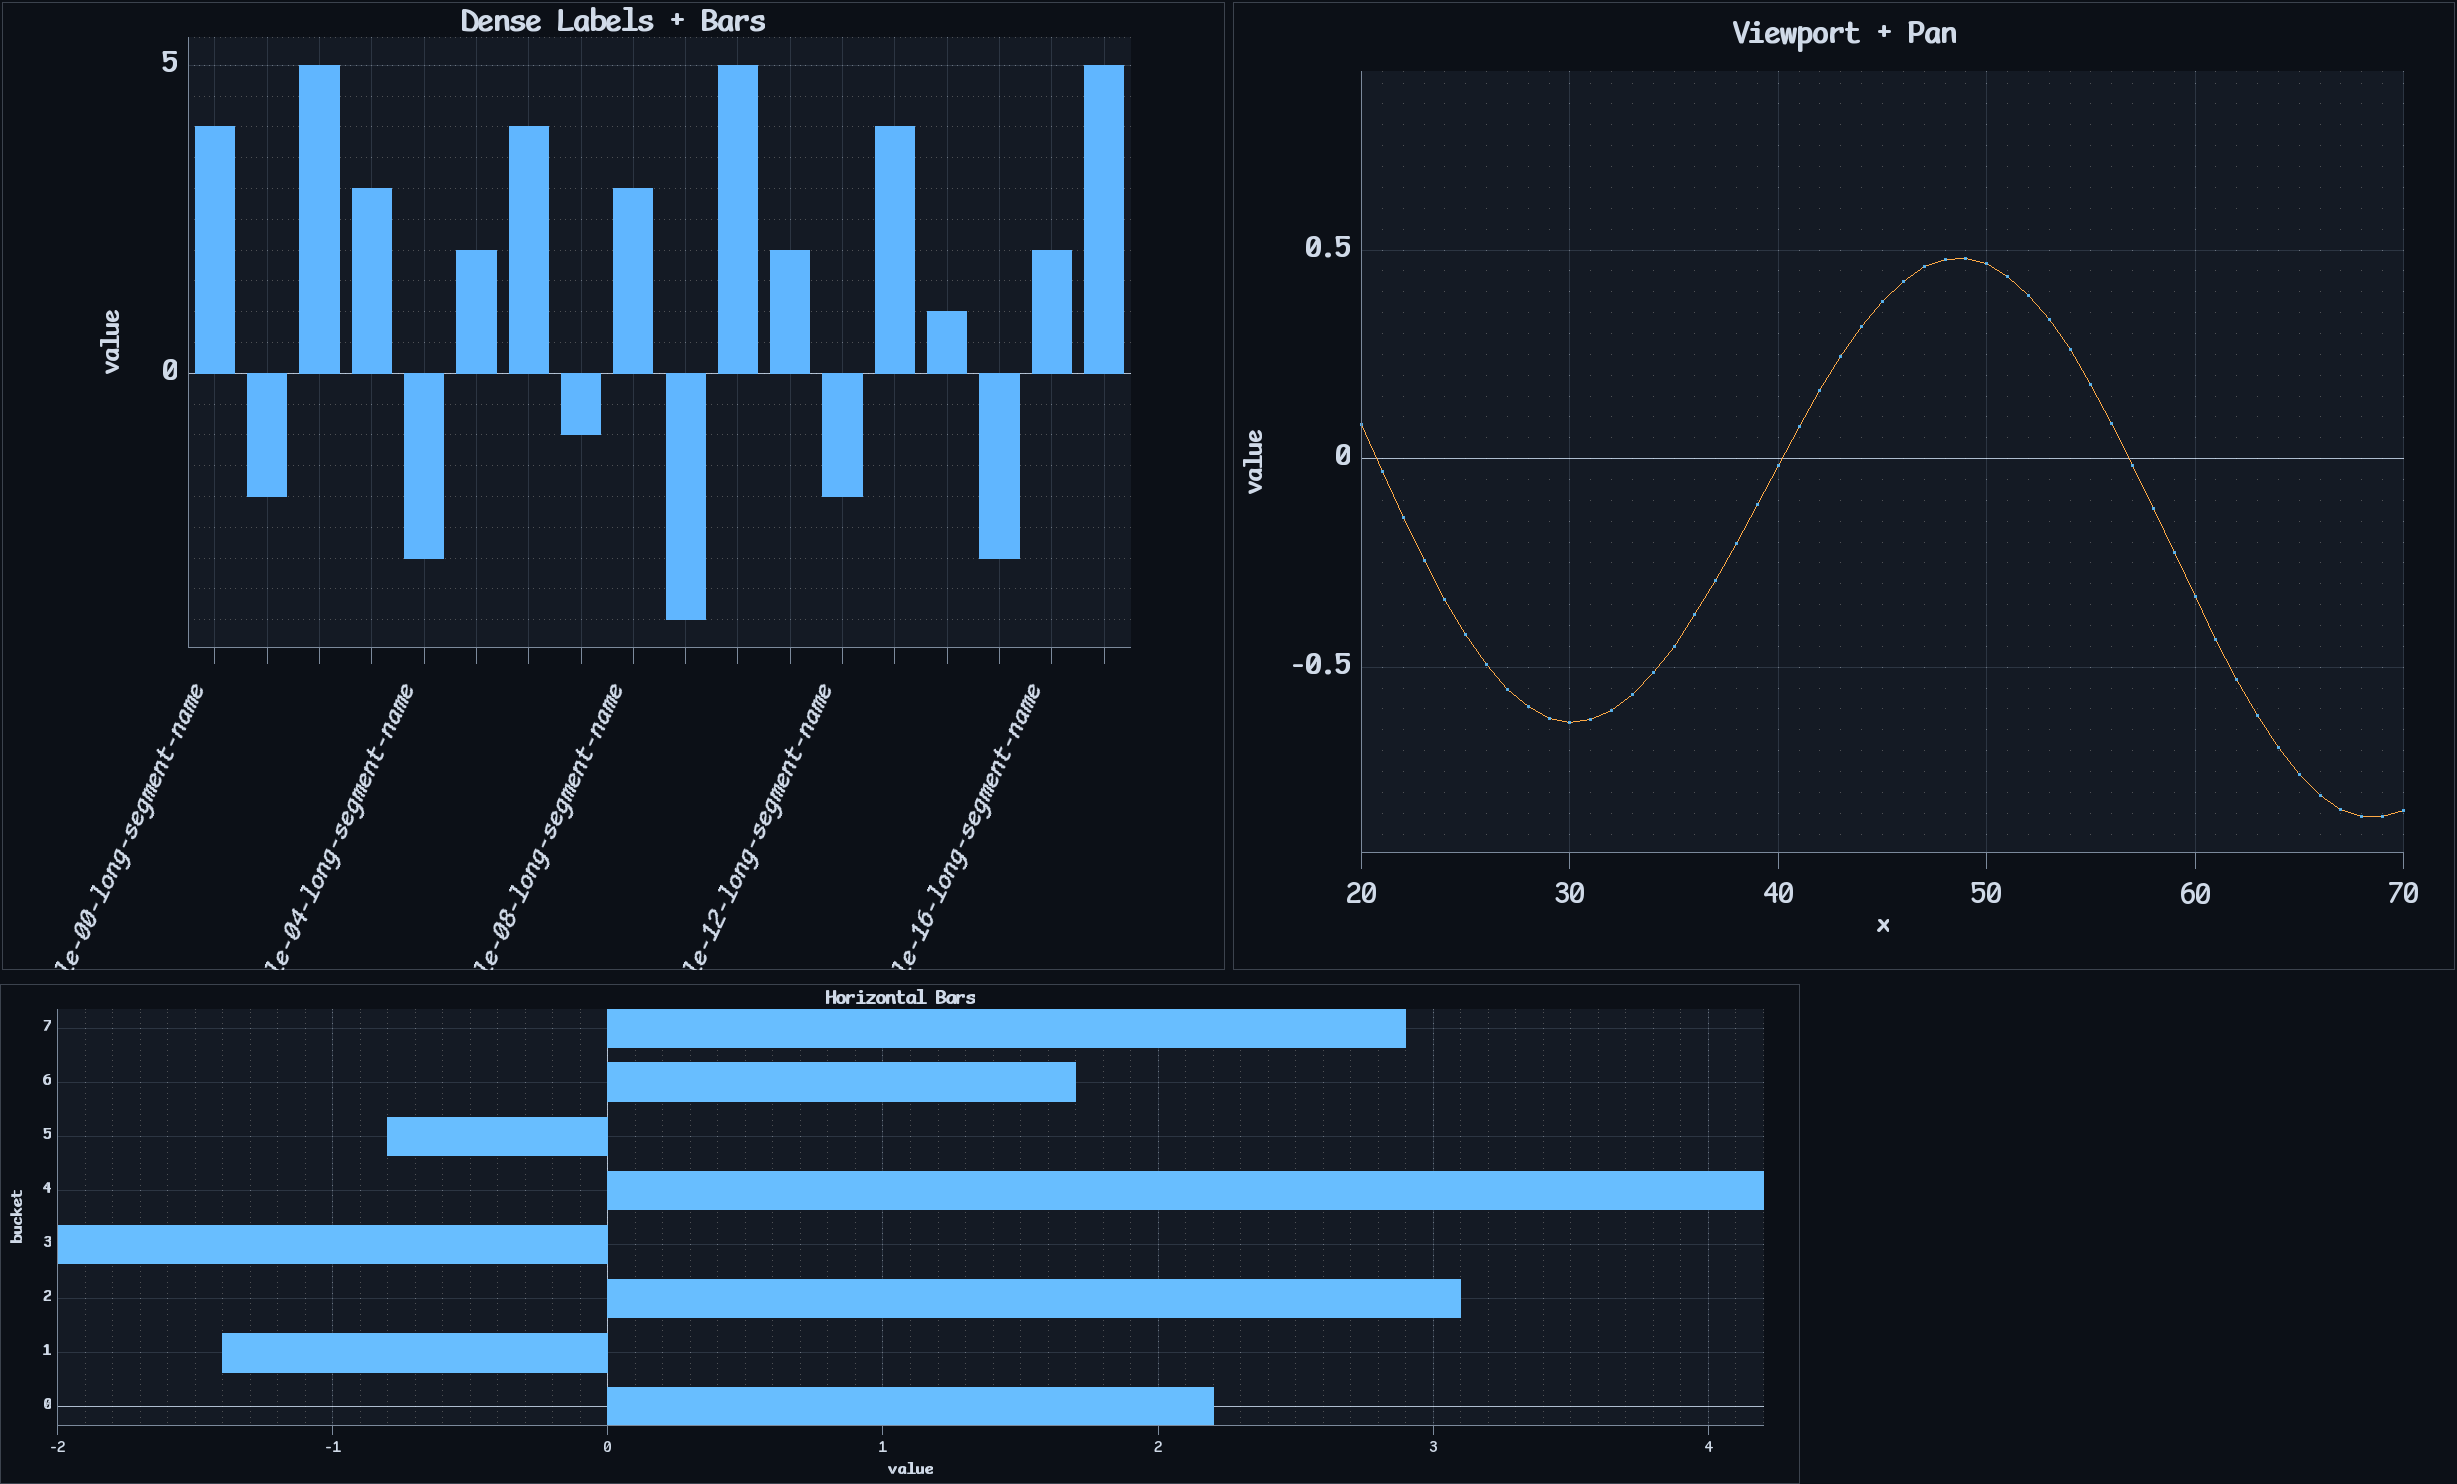
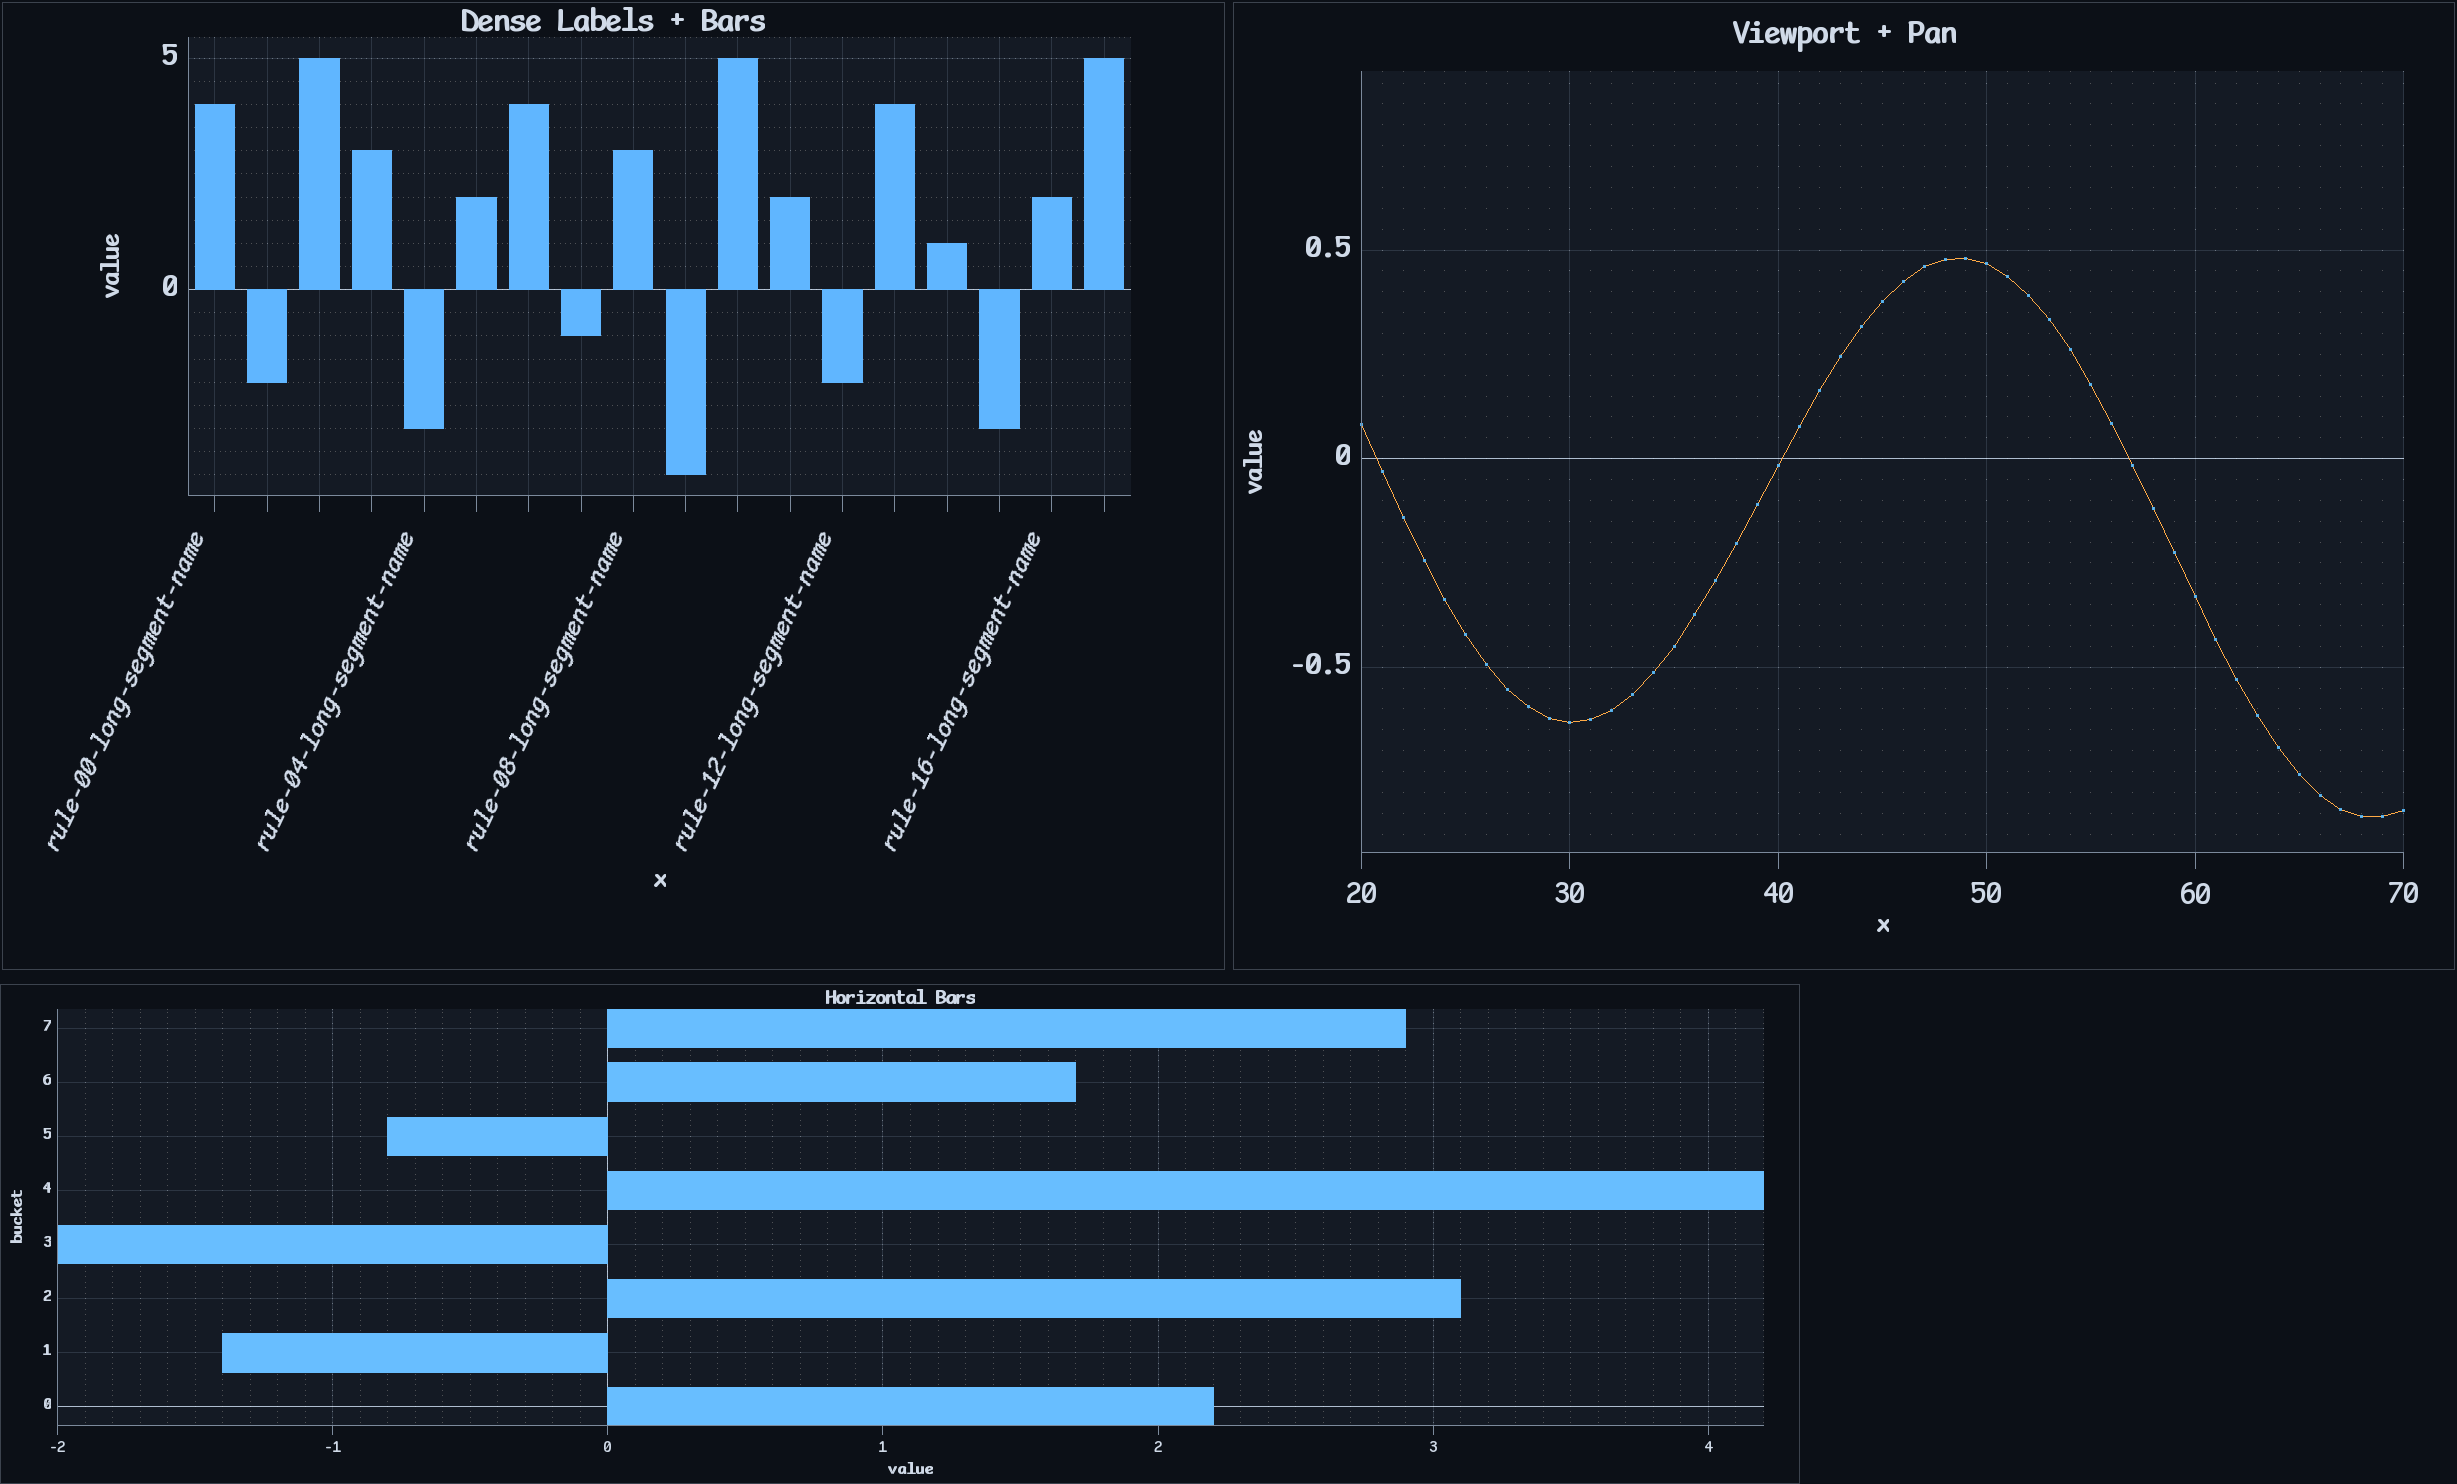
fix(m008): keep chart A x-title visible and use closed table selector

diff --git a/luvatrix_plot/figure.py b/luvatrix_plot/figure.py
@@ -1057,8 +1057,8 @@ class Axes:
         # Bound gutters for small figures so we always preserve a drawable plot area.
         left = min(left, max(6, self.figure.width // 3))
         right = min(right, max(4, self.figure.width // 4))
-        top = min(top, max(4, self.figure.height // 3))
-        bottom = min(bottom, max(6, self.figure.height // 3))
+        top = min(top, max(4, int(self.figure.height * 0.4)))
+        bottom = min(bottom, max(6, int(self.figure.height * 0.55)))
 
         plot_x0 = left
         plot_y0 = top

diff --git a/examples/m008_plot_data_ux_demo.py b/examples/m008_plot_data_ux_demo.py
@@ -188,7 +188,7 @@ def _render_table_luvatrix_rgba(table: TableComponent) -> np.ndarray:
         if focus:
             TextComponent(
                 component_id=f"table-focus-{row_idx}",
-                text=">",
+                text="▶",
                 position=CoordinatePoint(table_x - 6.0, y, "screen_tl"),
                 size=TextSizeSpec(unit="px", value=30.0),
                 appearance=TextAppearance(color_hex="#f2f7ff"),

diff --git a/discord/ops/m008_execution_board.md b/discord/ops/m008_execution_board.md
@@ -93,3 +93,10 @@ Last updated: `2026-03-01`
 - `PYTHONPATH=. uv run pytest tests/test_luvatrix_plot.py tests/test_luvatrix_ui_table.py tests/test_plot_app_protocol_example.py`
 - `PYTHONPATH=. uv run python examples/m008_plot_data_ux_demo.py`
 40. `2026-03-01`: `T-801` and `T-802` moved back to `Review`; `T-805` remains in `Review` pending final acceptance pass.
+41. `2026-03-01`: Final polish cycle started; `T-801` and `T-805` moved from `Review` to `In Progress` for chart-A x-title visibility and table selector symbol refinement.
+42. `2026-03-01`: Updated plot gutter clamping to preserve additional bottom headroom for dense rotated x labels so x-axis titles remain visible.
+43. `2026-03-01`: Table demo selector glyph changed from open arrow to closed arrow (`▶`) for row focus.
+44. `2026-03-01`: Verification rerun passed and demos refreshed:
+- `PYTHONPATH=. uv run pytest tests/test_luvatrix_plot.py tests/test_luvatrix_ui_table.py tests/test_plot_app_protocol_example.py`
+- `PYTHONPATH=. uv run python examples/m008_plot_data_ux_demo.py`
+45. `2026-03-01`: `T-801` and `T-805` moved back to `Review`; `T-802` remains in `Review`.
